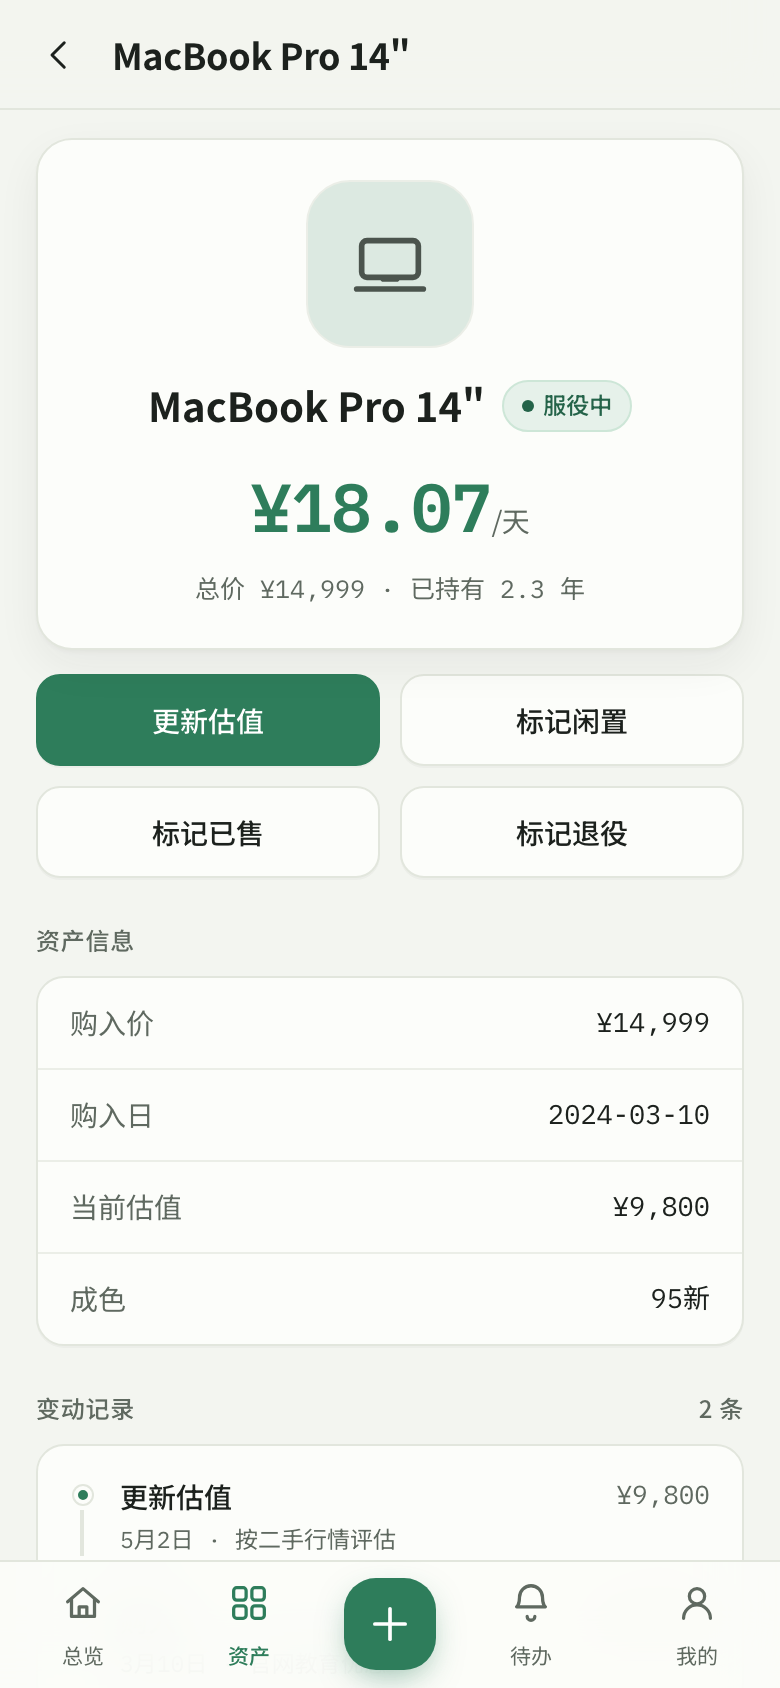
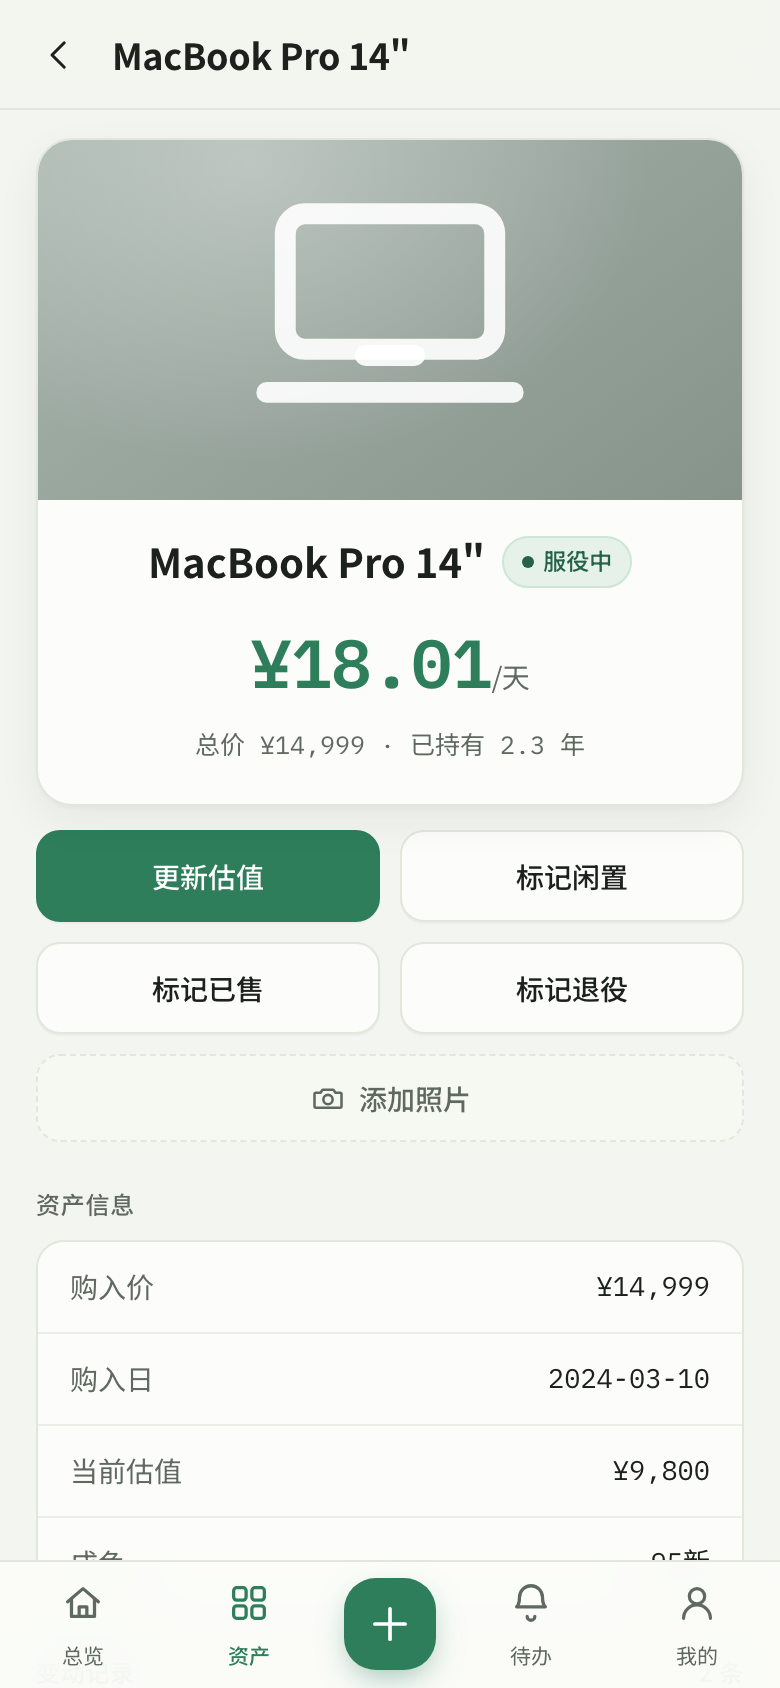
fix: 资产详情照片改为整宽横幅，与卡片缩略图一致
- 详情页原来把照片塞进 84×84 圆角小块，看着像 App 图标。
- 改为顶部整宽照片横幅（has-photo），真实照片/生成占位图都按 cover 展示；
  现金账户等无照片资产仍用小图标块。
- 详情横幅与卡片缩略图共用 a.photo，换图后两处同步更新。

diff --git a/demo/index.html b/demo/index.html
@@ -239,6 +239,8 @@ main{flex:1;overflow-y:auto;overflow-x:hidden;-webkit-overflow-scrolling:touch;p
 /* ---------- Asset detail ---------- */
 .dhero{margin:14px 18px 0;background:var(--card);border:1px solid var(--hair);border-radius:18px;padding:20px;box-shadow:var(--shadow);text-align:center;position:relative;overflow:hidden;}
 .dhero .thumb{width:84px;height:84px;border-radius:22px;margin:0 auto 14px;}
+.dhero.has-photo{padding-top:0;}
+.dhero-photo{margin:-20px -20px 16px;height:200px;background-size:cover;background-position:center;background-color:var(--card-2);}
 .dhero .thumb svg{width:40px;height:40px;}
 .dhero .nm{font-family:var(--cn);font-size:20px;font-weight:600;display:flex;align-items:center;justify-content:center;gap:8px;}
 .dhero .dailybig{font-family:var(--mono);font-size:34px;font-weight:600;color:var(--green);margin-top:10px;}
@@ -800,23 +802,27 @@ function gridCard(a){
 function viewAssetDetail(){
   const a=ASSETS.find(x=>x.id===S.currentAsset)||ASSETS[0];
   appbar(a.name,{back:'assets'});
+  // 有真实/占位照片 → 顶部整宽照片横幅；现金账户等无照片 → 小图标块
+  const heroVisual=a.photo
+    ?'<div class="dhero-photo" style="background-image:url('+a.photo+')"></div>'
+    :'<div class="thumb" style="background:'+(a.tint||'var(--card-2)')+'">'+svg(a.icon)+'</div>';
   let hero='';
   if(a.group==='cash'){
-    hero='<div class="dhero"><div class="thumb" style="background:'+a.tint+';display:grid;place-items:center"></div><div class="nm">'+a.name+'</div>'+
+    hero='<div class="dhero'+(a.photo?' has-photo':'')+'">'+heroVisual+'<div class="nm">'+a.name+'</div>'+
       '<div class="bal num"><span class="sym">¥</span>'+money(a.value,{sym:false})+'</div><div class="line">当前余额</div></div>';
   }else if(a.group==='entitle'){
     let big='',line='';const m=a.meter;
     if(m.type==='discrete'){big=m.remaining+' <span class="u">/ 共 '+m.total+' '+a.unitName+'</span>';line='折算价值 '+money(a.value);}
     else if(m.type==='cont'){big=money(m.remaining);line='面值 '+money(m.total);}
     else{const left=daysBetween(TODAY,m.end);big=Math.max(0,left)+' <span class="u">天后到期</span>';line='折算剩余 '+money(a.value);}
-    hero='<div class="dhero"><div class="thumb'+(a.photo?' photo':'')+'" style="'+(a.photo?'background-image:url('+a.photo+');background-size:cover;background-position:center':'background:'+a.tint)+'">'+(a.photo?'':svg(a.icon))+'</div><div class="nm">'+a.name+'</div>'+
+    hero='<div class="dhero'+(a.photo?' has-photo':'')+'">'+heroVisual+'<div class="nm">'+a.name+'</div>'+
       '<div class="dailybig num">'+big+'</div><div class="line">'+line+'</div>'+rulerHTML(a,true)+'</div>';
   }else{ // physical
     if(a.status==='sold'){
-      hero='<div class="dhero"><div class="thumb'+(a.photo?' photo':'')+'" style="'+(a.photo?'background-image:url('+a.photo+');background-size:cover;background-position:center':'background:'+a.tint)+'">'+(a.photo?'':svg(a.icon))+'</div><div class="nm">'+a.name+' '+statusPill(a)+'</div>'+
+      hero='<div class="dhero'+(a.photo?' has-photo':'')+'">'+heroVisual+'<div class="nm">'+a.name+' '+statusPill(a)+'</div>'+
         '<div class="bal num" style="color:var(--sold)">'+money(a.soldPrice)+'</div><div class="line">出售价 · 持有 '+heldText(a)+' · 折旧 '+money(a.soldPrice-a.price,{sign:true})+'</div></div>';
     }else{
-      hero='<div class="dhero"><div class="thumb'+(a.photo?' photo':'')+'" style="'+(a.photo?'background-image:url('+a.photo+');background-size:cover;background-position:center':'background:'+a.tint)+'">'+(a.photo?'':svg(a.icon))+'</div><div class="nm">'+a.name+' '+statusPill(a)+'</div>'+
+      hero='<div class="dhero'+(a.photo?' has-photo':'')+'">'+heroVisual+'<div class="nm">'+a.name+' '+statusPill(a)+'</div>'+
         (a.status==='retired'?'<div class="bal num">'+money(a.price,{cents:false})+'</div><div class="line">原价 · 已退役 · 持有 '+heldText(a)+'</div>':
         '<div class="dailybig num">¥'+dailyCost(a).toFixed(2)+'<span class="u">/天</span></div><div class="line">总价 '+money(a.price,{cents:false})+' · 已持有 '+heldText(a)+'</div>')+'</div>';
     }
